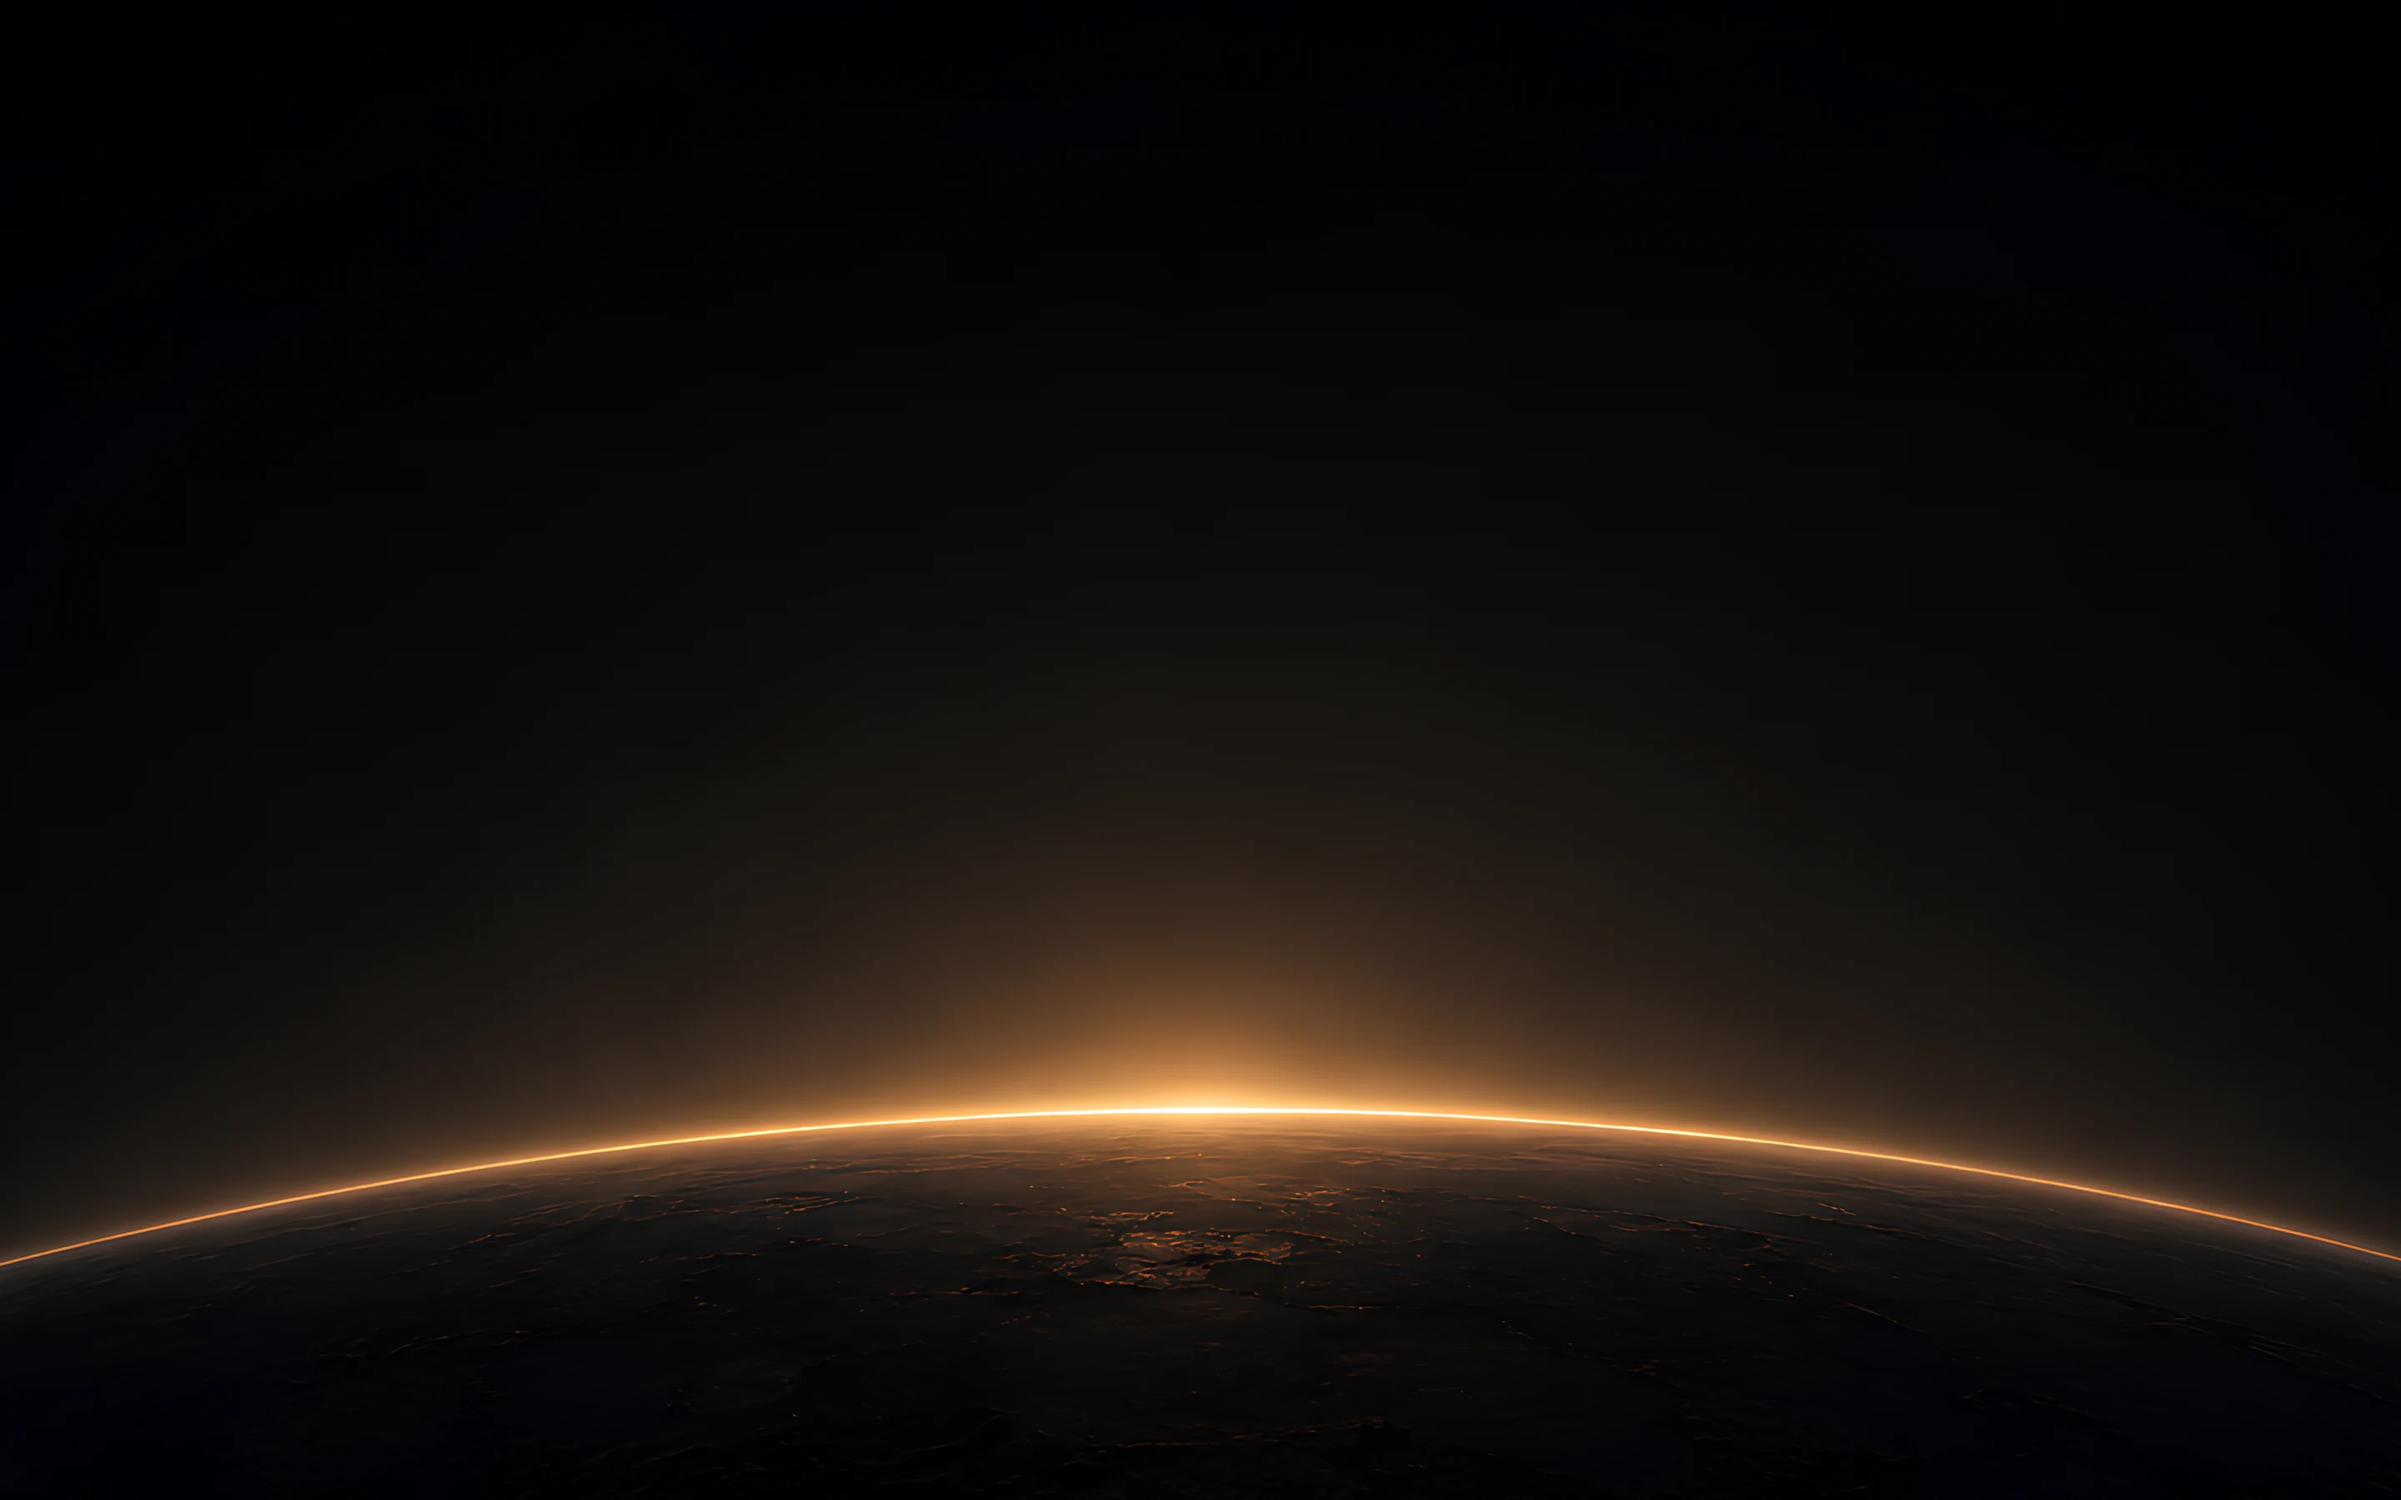
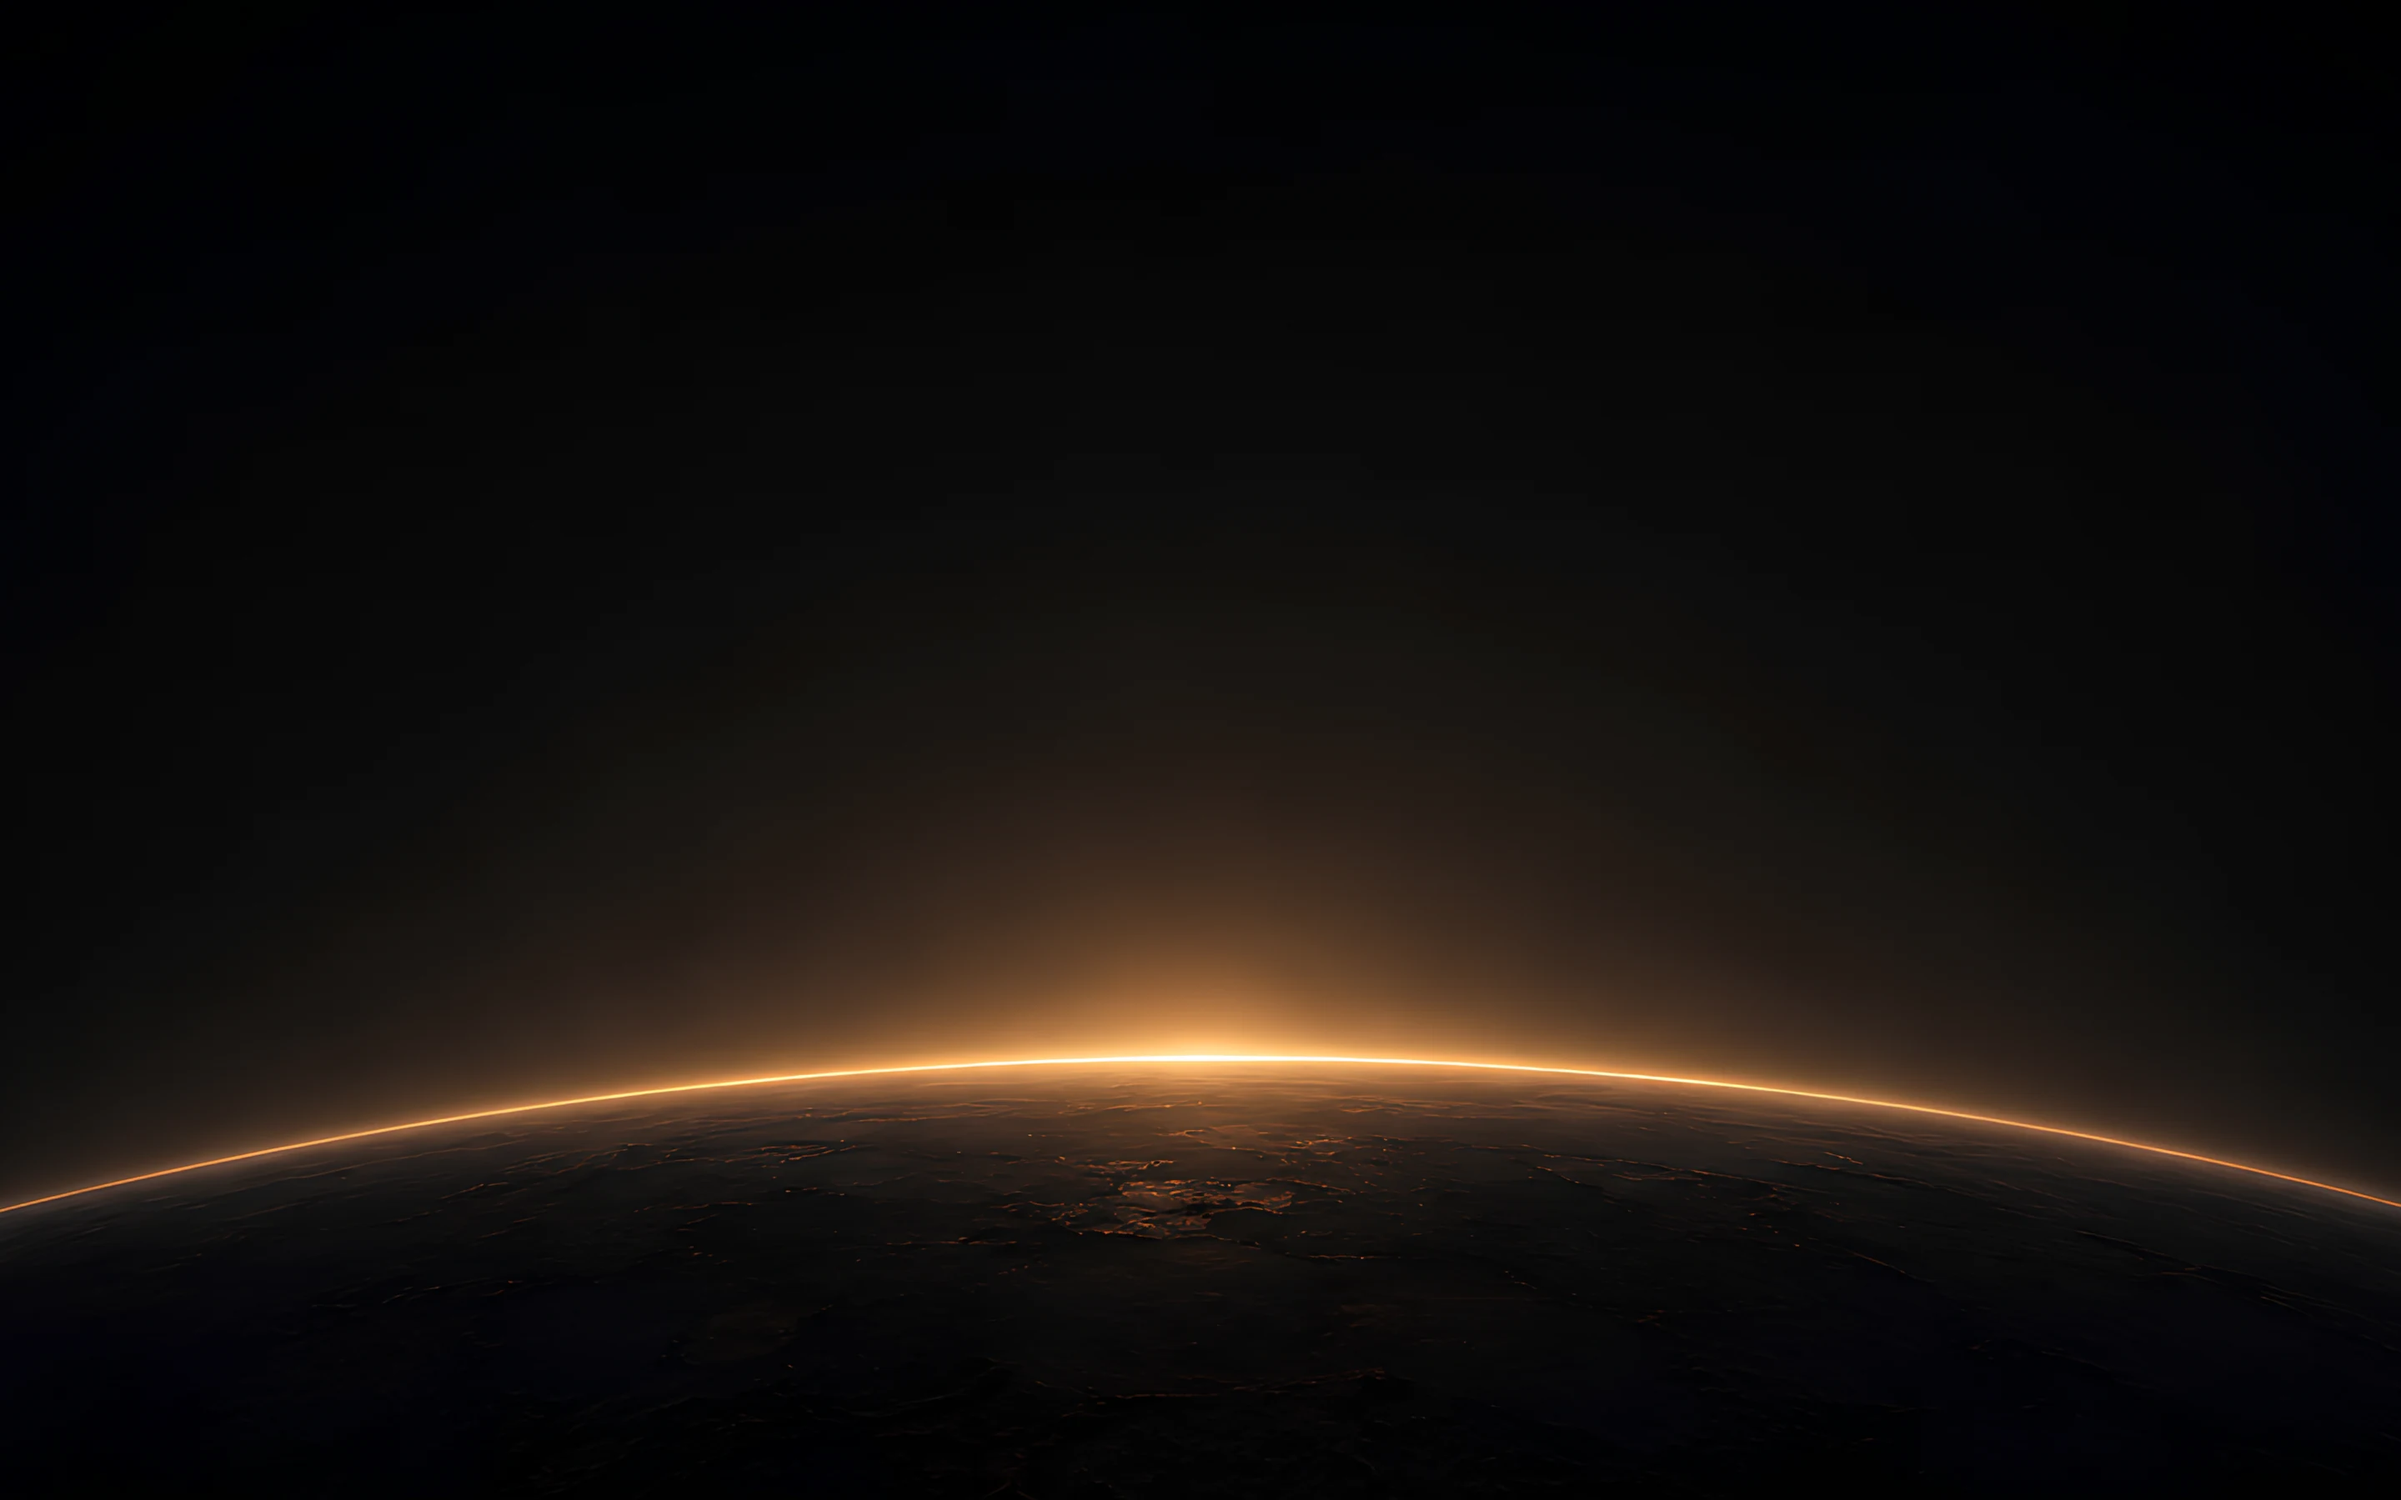
fix(fundos): alinha o horizonte do dark com o do espacial
HORIZONTE['dark'] vai de 0.719 para 0.752. Regenerado so bg-dark.webp — os
outros dois ficaram byte a byte iguais, conferido por md5.

  antes:  +32,0px abaixo do espacial
  depois:  -1,0px

Medicao no render 1440x930 com a animacao de 90s congelada, pela linha mais
brilhante por coluna na faixa x 1210-1420 — a unica larga o bastante e livre
de composer e chips. Quatro colunas, desvio estavel entre elas.

O protocolo pedido nao reproduziu
---------------------------------
Pico de brilho na coluna central x=720 me deu 418 / 622 / 681, nao 661 / 662 /
688. Dois motivos: no espacial o pico cai no clarao do ceu a 418, nao no
horizonte, e a coluna x=720 atravessa o composer (y 447-526) e os chips
(y 559-617). Por isso troquei a faixa de medicao, e reporto os dois numeros.

Achado que muda a premissa
--------------------------
Espacial e claro NAO estao alinhados entre si: o claro esta +19,5px abaixo do
espacial, com desvio estavel nas 4 colunas. A instrucao era nao mexer em
nenhum dos dois, entao nao mexi — mas isso significa que alinhar o dark ao
espacial deixa o claro como o unico fora. Se for pra alinhar tambem, e
HORIZONTE['claro'] de 0.732 para ~0.752 e regenerar so ele.

Detalhe de implementacao
------------------------
ALTURA virou por tema. Subir o horizonte consome margem do recorte, e o limite
e ALTURA <= (1 - HORIZONTE) / (1 - ALVO); com o dark em 0,752 o teto e 0,9538,
entao os 0,96 antigos estouravam o arquivo. So o dark foi pra 0,95 — espacial
[…]

Changed region(s): [[0.0, 0.5911, 1.0, 0.8711]]

diff --git a/solis-repo/solis-repo/design/preparar-fundos.py b/solis-repo/solis-repo/design/preparar-fundos.py
@@ -42,23 +42,42 @@ FONTES = {
     'claro':    'upscalemedia-transformed (3).png',
     'dark':     'upscalemedia-transformed (1) (1).png',
 }
-HORIZONTE = {'espacial': 0.742, 'claro': 0.732, 'dark': 0.719}
+# Calibrado medindo a linha mais brilhante por coluna na faixa x 1210-1420 do
+# render (livre de UI), em 4 colunas. O desvio se mantem estavel entre colunas,
+# entao e offset real e nao ruido de deteccao.
+#   0,01 sobe o horizonte ~9,7px na janela de 930. AUMENTAR sobe.
+HORIZONTE = {
+    'espacial': 0.742,   # baseline
+    'claro':    0.732,   # medido 19,5px ABAIXO do espacial — ver nota no fim do arquivo
+    'dark':     0.752,   # era 0.719; +0.033 pra subir os 32px que estava abaixo
+}
 ALVO   = 0.740      # onde o horizonte fica no arquivo final, igual pros três
-ALTURA = 0.96       # fração da altura da fonte que sobrevive ao recorte
+# Fração da altura da fonte que sobrevive ao recorte. É por tema porque quanto
+# mais o horizonte precisa subir, mais margem o recorte consome: o limite é
+# ALTURA <= (1 - HORIZONTE) / (1 - ALVO). Com o dark em 0,752 o teto é 0,9538,
+# então 0,96 estourava o arquivo. Só o dark mudou; espacial e claro seguem em
+# 0,96 pra que os arquivos deles não sejam tocados.
+ALTURA = {'espacial': 0.96, 'claro': 0.96, 'dark': 0.95}
 ASPECTO = 1.6       # 16:10, comum aos três
 SAIDA = (2880, 1800)
 
-raiz = sys.argv[1] if len(sys.argv) > 1 else '../../'
+raiz = '../../'
+temas = list(FONTES)
+for arg in sys.argv[1:]:
+    if arg in FONTES: temas = [arg]          # regenerar so um tema
+    else: raiz = arg
 os.makedirs('public/fundos', exist_ok=True)
 
-for tema, arquivo in FONTES.items():
+for tema in temas:
+    arquivo = FONTES[tema]
     caminho = os.path.join(raiz, arquivo)
     if not os.path.exists(caminho):
         print('FALTA: %s — veja o cabeçalho deste arquivo' % caminho); continue
     im = Image.open(caminho).convert('RGB')
     W, H = im.size
-    h = round(ALTURA * H)
-    o = round(H * (HORIZONTE[tema] - ALVO * ALTURA))   # leva o horizonte pro ALVO
+    altura = ALTURA[tema]
+    h = round(altura * H)
+    o = round(H * (HORIZONTE[tema] - ALVO * altura))   # leva o horizonte pro ALVO
     w = round(ASPECTO * h)
     x = round((W - w) / 2)
     if not (0 <= o <= H - h and 0 <= x <= W - w):
@@ -67,3 +86,27 @@ for tema, arquivo in FONTES.items():
     im.crop((x, o, x + w, o + h)).resize(SAIDA, Image.LANCZOS).save(dest, 'WEBP', quality=88, method=6)
     print('%-9s %dx%d recortado em (%d,%d) -> %s (%.0f KB)'
           % (tema, w, h, x, o, dest, os.path.getsize(dest) / 1024))
+
+
+# NOTA — alinhamento entre os tres, medido em 2026-08-27
+#
+# Medindo a linha mais brilhante por coluna na faixa x 1210-1420 do render (a
+# unica larga o bastante e livre de composer e chips), com a animacao de 90s
+# congelada:
+#
+#            x1240  x1300  x1360  x1410   vs espacial
+#   espacial   701    711    723    733   baseline
+#   claro      719    730    743    754   +19,5px
+#   dark       731    743    755    767   +32,0px   -> corrigido para 0.752
+#
+# O `claro` continua ~19,5px abaixo do espacial. NAO foi mexido porque a
+# instrucao foi explicita em nao alterar espacial nem claro. Se for pra alinhar,
+# o valor e 0.752 - nao: claro passaria de 0.732 para 0.752 tambem? Nao — o
+# ajuste do claro seria 0.732 + 0.0201 = 0.752 por coincidencia aritmetica dos
+# desvios. Confirmar antes de aplicar.
+#
+# Protocolos que NAO funcionam aqui, ja testados: pico de brilho na coluna
+# central x=720 (no espacial acha o clarao do ceu, nao o horizonte, e a coluna
+# atravessa o composer), deteccao de crista, de gradiente e de textura, e
+# correlacao cruzada vertical. Cada um trava num traco fisico diferente porque
+# espacial e dark tem arco fino e nitido e o claro tem transicao difusa.

diff --git a/solis-repo/solis-repo/docs/MEDICOES_FASE2.md b/solis-repo/solis-repo/docs/MEDICOES_FASE2.md
@@ -205,6 +205,29 @@ centrais) e conferido visualmente nas três:
 | Claro | 73,2% | **74,0%** |
 | Dark | 71,9% | **74,0%** |
 
+### Calibração do alinhamento
+
+Medido no render (1440×930, animação de 90s congelada) pela linha mais brilhante por coluna
+na faixa **x 1210–1420** — a única larga o bastante e livre de composer e chips. O desvio se
+mantém estável entre colunas, o que confirma offset real e não ruído de detecção.
+
+| tema | x1240 | x1300 | x1360 | x1410 | vs espacial |
+|---|---|---|---|---|---|
+| espacial | 701 | 711 | 723 | 733 | baseline |
+| claro | 719 | 730 | 743 | 754 | **+19,5px** |
+| dark (antes) | 731 | 743 | 755 | 767 | +32,0px |
+| dark (depois) | 699 | 710 | 722 | 733 | **−1,0px** |
+
+O `dark` foi de `HORIZONTE` 0,719 → **0,752**. O `claro` continua 19,5px abaixo do espacial e
+**não foi mexido** — decisão pendente.
+
+Protocolos que **não** funcionam nestas imagens, todos testados: pico de brilho na coluna
+central x=720 (no espacial acha o clarão do céu, não o horizonte, e a coluna atravessa o
+composer e os chips), detecção de crista, de gradiente, de textura, e correlação cruzada
+vertical. Cada um trava num traço físico diferente porque espacial e dark têm arco fino e
+nítido enquanto o claro tem transição difusa. Só a faixa livre de UI, com a linha mais
+brilhante por coluna, dá leitura estável nos três.
+
 **A compensação por CSS não era possível.** A ideia era um `background-position-y` por
 tema, mas com `background-size: cover` e imagem de aspecto 1,60 numa janela de 1,55 o
 `cover` escala pela altura: a imagem cobre os 930px exatos e a folga sobra só na
